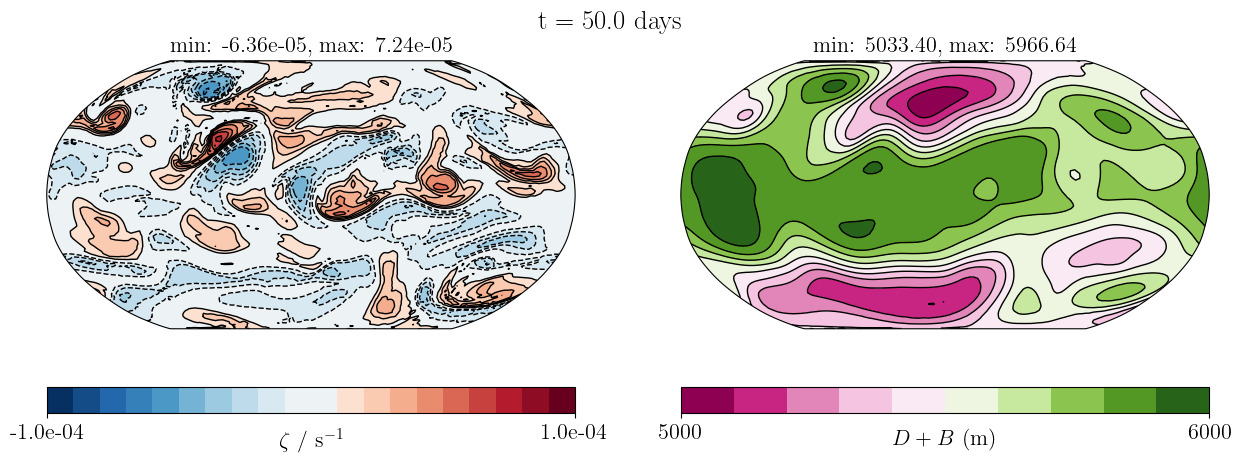
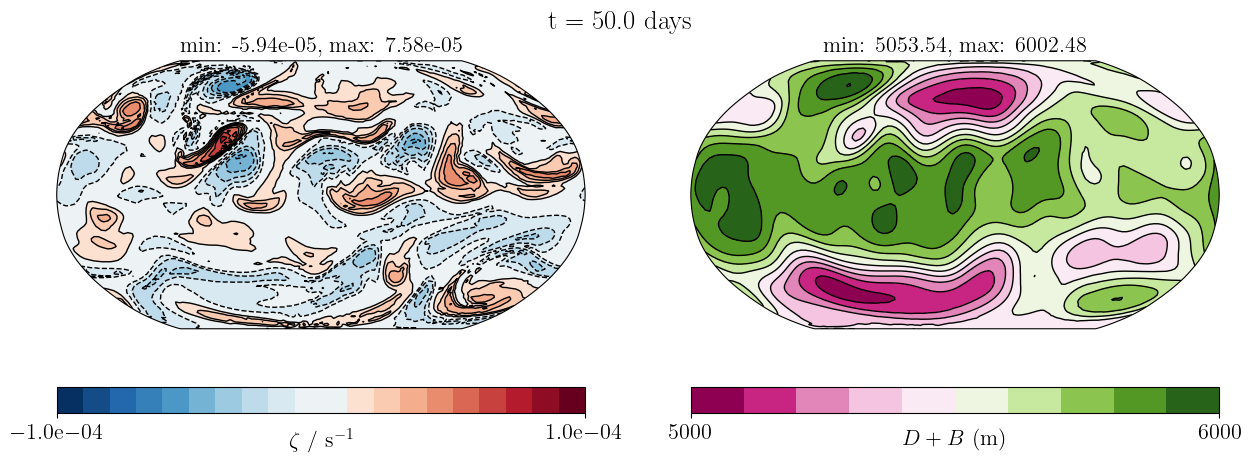
fix williamson 5

diff --git a/examples/shallow_water/williamson_5.py b/examples/shallow_water/williamson_5.py
@@ -15,14 +15,15 @@ from gusto import (
     ShallowWaterParameters, ShallowWaterEquations, Sum,
     lonlatr_from_xyz, GeneralIcosahedralSphereMesh, ZonalComponent,
     MeridionalComponent, RelativeVorticity, RungeKuttaFormulation,
-    SubcyclingOptions
+    SubcyclingOptions, EmbeddedDGOptions, GeneralCubedSphereMesh,
+    TrapeziumRule
 )
 
 williamson_5_defaults = {
     'ncells_per_edge': 16,     # number of cells per icosahedron edge
     'dt': 900.0,               # 15 minutes
     'tmax': 50.*24.*60.*60.,   # 50 days
-    'dumpfreq': 960,           # once per 10 days with default options
+    'dumpfreq': 480,           # once per 10 days with default options
     'dirname': 'williamson_5'
 }
 
@@ -73,13 +74,14 @@ def williamson_5(
     rsq = min_value(R0**2, (lamda - lamda_c)**2 + (phi - phi_c)**2)
     r = sqrt(rsq)
     tpexpr = mountain_height * (1 - r/R0)
-    eqns = ShallowWaterEquations(domain, parameters, fexpr=fexpr,
-                                 topog_expr=tpexpr)
+    eqns = ShallowWaterEquations(
+        domain, parameters, fexpr=fexpr,topog_expr=tpexpr
+    )
 
     # I/O
     output = OutputParameters(
-        dirname=dirname, dumplist_latlon=['D'], dumpfreq=dumpfreq,
-        dump_vtus=True, dump_nc=False, dumplist=['D', 'topography']
+        dirname=dirname, dumplist_latlon=[], dumpfreq=dumpfreq,
+        dump_vtus=True, dump_nc=True, dumplist=['D', 'topography']
     )
     diagnostic_fields = [Sum('D', 'topography'), RelativeVorticity(),
                          MeridionalComponent('u'), ZonalComponent('u')]
@@ -101,7 +103,7 @@ def williamson_5(
 
     # Time stepper
     stepper = SemiImplicitQuasiNewton(
-        eqns, io, transported_fields, transport_methods
+        eqns, io, transported_fields, transport_methods, tau_values={'D': 1.0}
     )
 
     # ------------------------------------------------------------------------ #
